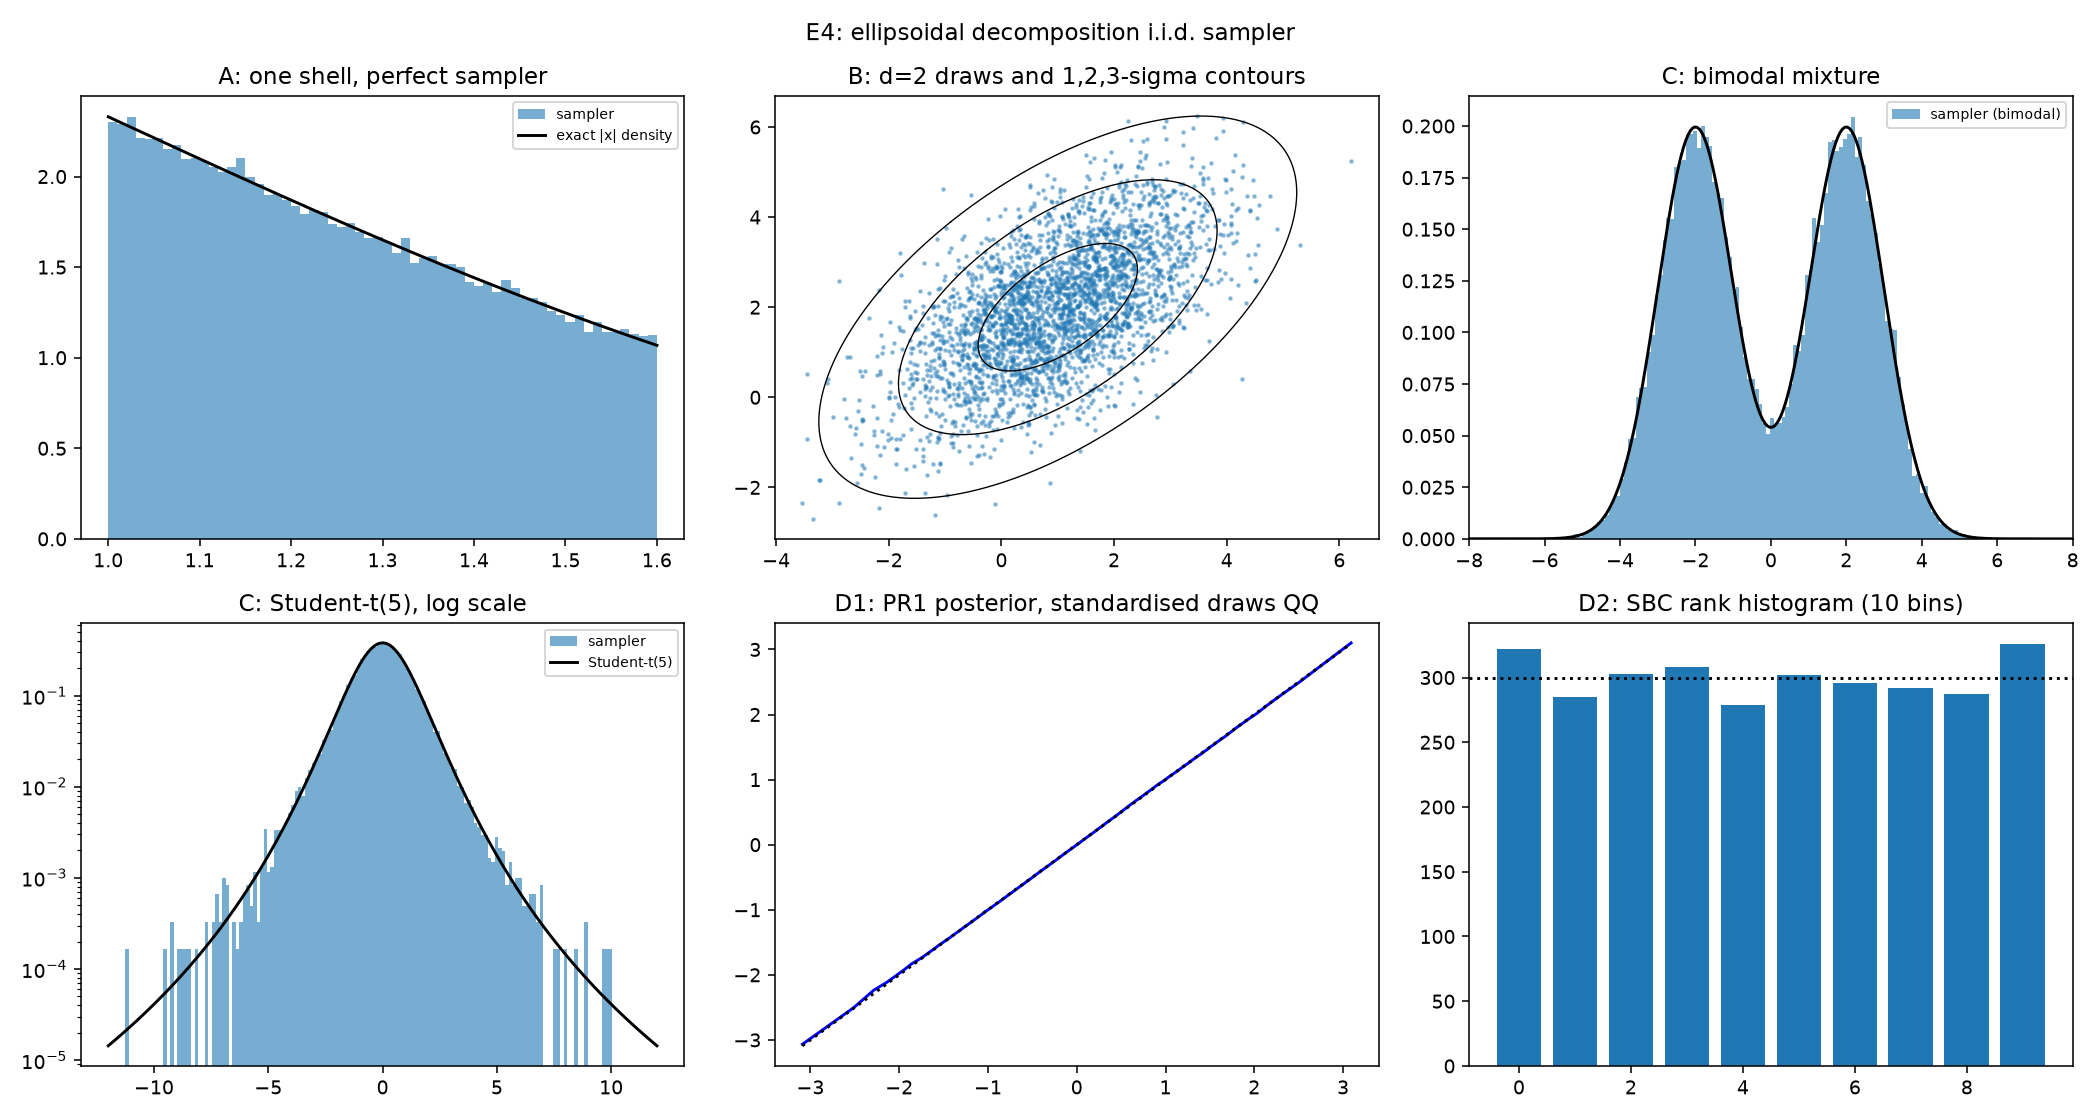
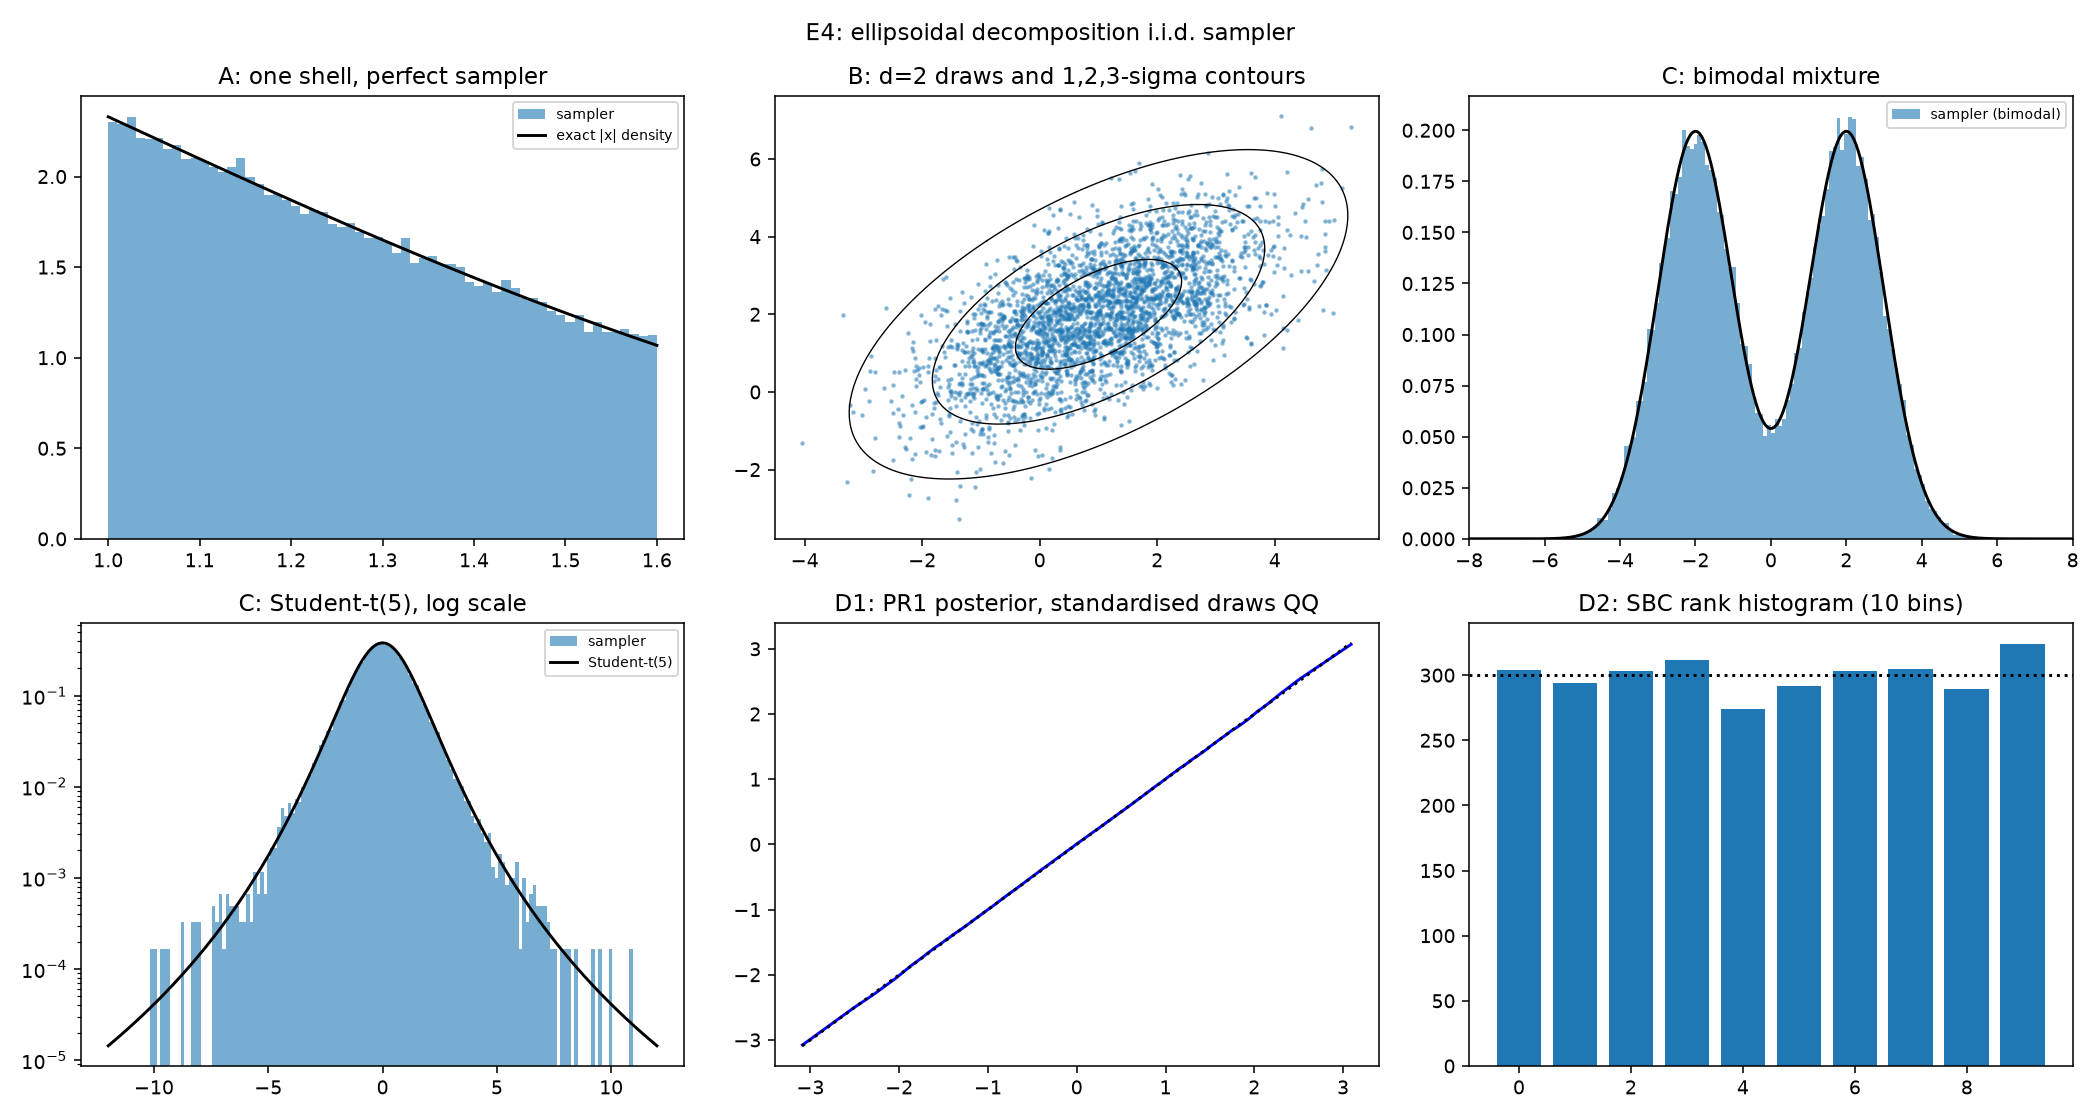
e4: use explicit modes, add coverage-independence check; regenerate results

diff --git a/experiments/e4_ellipsoidal_sampler.py b/experiments/e4_ellipsoidal_sampler.py
@@ -8,16 +8,21 @@ other inference methods. The sampler draws from pi_hat (Monte Carlo shell weight
 Protocol (as in PR 1): criteria fixed before running, 10 seeds (0..9; pooled draws), every positive check has a negative
 control that must fail, exit status 1 if any required check (positive or control) does not hold. alpha = 0.001.
 
-Part A  one shell, 1-D N(0,1), shell {1.0 <= |x| <= 1.6}, rigorous bounds (p = 0.458); 20,000 draws x 10 seeds
+Part A  one shell, 1-D N(0,1), shell {1.0 <= |x| <= 1.6}, rigorous mode (p = 0.458); 20,000 draws x 10 seeds
         KS vs exact CDF p > alpha | mean|x| within 3 SE | mean coalescence time within 3 SE of (1-p)/p | 0 minorization violations
         CONTROLS (must fail): uniform draws without residual steps; the coalescence-time form stated in the source paper
-Part B  Gaussian N(nu, S), d in {1,2,3,5}, partition matched to the target, Monte Carlo bounds as in the paper (N_i = 10,000,
-        eta = 1e-5), 4,000 draws x 10 seeds; d in {2,5} also with rigorous bounds
+Part B  Gaussian N(nu, S), d in {1,2,3,5}, partition matched to the target, mode "monte_carlo" as in the paper (N_i = 10,000,
+        eta = 1e-5; NO perfect-sampling guarantee), 4,000 draws x 10 seeds; d in {2,5} also in mode "rigorous" (Gaussian bounds)
         KS of Mahalanobis^2 vs chi2(d) p > alpha | every mean |z| < 4 | every covariance entry |z| < 4 | violations < 0.1% of steps
         CONTROLS (d=2, must fail): shells chosen uniformly instead of by pi_hat; tail truncated (fixed M = 4 shells)
+        Shell coverage is fixed by prepare() before any draw (tail_tol = 1e-6 of the retained mass: bound in rigorous mode,
+        estimate in monte_carlo mode); a violation larger than violation_tol raises, so a completed run had none that large.
 Part C  non-Gaussian 1-D: bimodal 0.5 N(-2,1) + 0.5 N(2,1) and Student-t with 5 d.o.f.; 4,000 draws x 10 seeds
         KS vs exact CDF p > alpha.   CONTROL (t5, must fail): central ellipsoid only (fixed M = 1; drops ~5% of the mass. A first version used M = 4, which drops
         only ~0.13% and is below the resolution of a KS test at 40,000 draws, so it could not fail and was replaced)
+Part E  coverage independent of the draws (d = 2, monte_carlo mode, 10 seeds): after prepare(), 500 calls of sample(1), 5 calls of
+        sample(100) and one sample(500) per seed: each vs chi2(2) KS p > alpha, the three pairwise two-sample KS p > alpha, and the
+        shell set unchanged by the calls.   CONTROL (must fail): two-sample KS between draws of N(nu, S) and of N(nu, 1.2 S)
 Part D  continuity with PR 1 (ScalarGaussianBelief: mu0=0, s0=1, sigma_y=0.5)
         D1  sampler for the posterior after T=8 observations, partition = (mu_t, sigma_t^2) of the PR 1 belief:
             standardised draws KS vs N(0,1) p > alpha | mean and variance within 3 SE
@@ -42,7 +47,7 @@ ROOT = pathlib.Path(__file__).resolve().parents[1]
 sys.path.insert(0, str(ROOT / "src"))
 from bayesian_reflex import ScalarGaussianBelief  # noqa: E402
 from bayesian_reflex.sampling import (EllipsoidalPartition, EllipsoidalSampler, LinearRadii,  # noqa: E402
-                                      gaussian_log_density, gaussian_shell_log_bounds)
+                                      gaussian_log_density, gaussian_log_tail_bound, gaussian_shell_log_bounds)
 
 OUT = ROOT / "results"
 OUT.mkdir(exist_ok=True)
@@ -57,17 +62,23 @@ def add(name, value, criterion, passed, control=False):
 
 def summarize(sampler):
     d = sampler.diagnostics
-    return dict(n_shells=d["n_shells"], mean_T=d["mean_coalescence_steps"], max_T=d["max_coalescence_steps"],
+    return dict(mode=d["mode"], n_shells=d["n_shells"], mean_T=d["mean_coalescence_steps"], max_T=d["max_coalescence_steps"],
                 min_p_selected=float(min(d["p_hat"][i - 1] for i in d["shell_counts"])),
                 last_shell_weight=d["last_shell_weight"], violations=d["n_minorization_violations"],
-                residual_steps=d["n_residual_steps"])
+                max_shortfall=d["max_violation_shortfall"], residual_steps=d["n_residual_steps"],
+                tv_weight_error_estimate=d["tv_weight_error_estimate"], omitted_mass_bound=d["omitted_mass_bound"],
+                omitted_mass_estimate=d["omitted_mass_estimate"])
 
 
 def merge(ds):
-    return dict(n_shells=max(d["n_shells"] for d in ds), mean_T=float(np.mean([d["mean_T"] for d in ds])),
+    pick = lambda k, f: (f(d[k] for d in ds if d[k] is not None) if any(d[k] is not None for d in ds) else None)  # noqa: E731
+    return dict(mode=ds[0]["mode"], n_shells=max(d["n_shells"] for d in ds), mean_T=float(np.mean([d["mean_T"] for d in ds])),
                 max_T=max(d["max_T"] for d in ds), min_p_selected=min(d["min_p_selected"] for d in ds),
                 max_last_shell_weight=max(d["last_shell_weight"] for d in ds),
-                violations=sum(d["violations"] for d in ds), residual_steps=sum(d["residual_steps"] for d in ds))
+                violations=sum(d["violations"] for d in ds), max_shortfall=max(d["max_shortfall"] for d in ds),
+                residual_steps=sum(d["residual_steps"] for d in ds),
+                max_tv_weight_error_estimate=max(d["tv_weight_error_estimate"] for d in ds),
+                max_omitted_mass_bound=pick("omitted_mass_bound", max), max_omitted_mass_estimate=pick("omitted_mass_estimate", max))
 
 
 # ============================================================================================== Part A
@@ -87,10 +98,11 @@ def part_a():
     xs, xs1, xs_u, ds, Ts = [], [], [], [], []
     for seed in SEEDS:
         rng = np.random.default_rng(seed)
+        part = EllipsoidalPartition([0.0], [[1.0]], LinearRadii(1.0, 0.6))
         mk = lambda support: EllipsoidalSampler(  # noqa: E731
-            gaussian_log_density([0.0], [[1.0]]),
-            EllipsoidalPartition([0.0], [[1.0]], LinearRadii(1.0, 0.6)), geometric_support=support, n_mc=100,
-            log_bounds=gaussian_shell_log_bounds(EllipsoidalPartition([0.0], [[1.0]], LinearRadii(1.0, 0.6)), [0.0], [[1.0]]))
+            gaussian_log_density([0.0], [[1.0]]), part, mode="rigorous", geometric_support=support, n_mc=100,
+            log_bounds=gaussian_shell_log_bounds(part, [0.0], [[1.0]]),
+            log_tail_bound=gaussian_log_tail_bound(part, [0.0], [[1.0]]))
         s0, s1 = mk(0), mk(1)
         xs.append(s0.sample_from_shells(np.full(K, 2), rng)[:, 0])
         xs1.append(s1.sample_from_shells(np.full(K, 2), rng)[:, 0])
@@ -128,9 +140,12 @@ def run_gaussian(d, bounds, n=4000, **kw):
     for seed in SEEDS:
         rng = np.random.default_rng(100 + seed)
         part = EllipsoidalPartition(nu, S, LinearRadii(1.5, 0.3))
-        lb = gaussian_shell_log_bounds(part, nu, S) if bounds == "exact" else None
-        s = EllipsoidalSampler(gaussian_log_density(nu, S), part, log_bounds=lb, n_mc=10_000, **kw)
-        shells_override = kw.pop("_uniform_shells", None)
+        if bounds == "exact":
+            s = EllipsoidalSampler(gaussian_log_density(nu, S), part, mode="rigorous", n_mc=10_000,
+                                   log_bounds=gaussian_shell_log_bounds(part, nu, S),
+                                   log_tail_bound=gaussian_log_tail_bound(part, nu, S), **kw)
+        else:
+            s = EllipsoidalSampler(gaussian_log_density(nu, S), part, n_mc=10_000, **kw)
         xs.append(s.sample(n, rng))
         ds.append(summarize(s))
     return np.concatenate(xs), merge(ds), nu, S
@@ -148,6 +163,7 @@ def check_gaussian(label, x, nu, S, dg, required_violations=True):
     add(f"{label}: max |z| of covariance entries", zcov, "<4", zcov < 4)
     rate = dg["violations"] / max(dg["residual_steps"], 1)
     add(f"{label}: minorization violation rate", rate, "<0.001", rate < 1e-3)
+    add(f"{label}: worst violation shortfall (p_hat - a)/p_hat", dg["max_shortfall"], "<0.01", dg["max_shortfall"] < 1e-2)
     return ks
 
 
@@ -170,10 +186,9 @@ def part_b():
         rng = np.random.default_rng(200 + seed)
         part = EllipsoidalPartition(nu, S, LinearRadii(1.5, 0.3))
         s = EllipsoidalSampler(gaussian_log_density(nu, S), part, n_mc=10_000)
-        M = s._M
-        s._ensure_shell(M, rng)
-        xu.append(s.sample_from_shells(rng.integers(1, M + 1, 4000), rng))           # shells chosen uniformly
-        s2 = EllipsoidalSampler(gaussian_log_density(nu, S), part, n_mc=10_000, initial_shells=4, adaptive_shells=False)
+        s.prepare(rng)
+        xu.append(s.sample_from_shells(rng.integers(1, s._M + 1, 4000), rng))        # shells chosen uniformly
+        s2 = EllipsoidalSampler(gaussian_log_density(nu, S), part, n_mc=10_000, n_shells=4)
         xt.append(s2.sample(4000, rng))                                               # tail truncated at M = 4
     for name, x in (("shells chosen uniformly (weights ignored)", np.concatenate(xu)),
                     ("tail truncated at M = 4 shells", np.concatenate(xt))):
@@ -199,7 +214,7 @@ def part_c():
         ld_t = lambda th: -3.0 * np.log1p(th[:, 0] ** 2 / 5.0)                              # noqa: E731
         s = EllipsoidalSampler(ld_t, part_t, n_mc=10_000, initial_shells=8)
         xt.append(s.sample(4000, rng)[:, 0]); dt.append(summarize(s))
-        s = EllipsoidalSampler(ld_t, part_t, n_mc=10_000, initial_shells=1, adaptive_shells=False)
+        s = EllipsoidalSampler(ld_t, part_t, n_mc=10_000, n_shells=1)
         xc.append(s.sample(4000, rng)[:, 0])
     xm, xt, xc = (np.concatenate(v) for v in (xm, xt, xc))
     pm, pt, pc = stats.kstest(xm, cdf_mix).pvalue, stats.kstest(xt, t5.cdf).pvalue, stats.kstest(xc, t5.cdf).pvalue
@@ -208,6 +223,38 @@ def part_c():
     add("C Student-t(5): central ellipsoid only (M = 1 shell): KS p", pc, f"<{ALPHA} (must fail)", pc < ALPHA, control=True)
     diag["C_mixture"], diag["C_t5"] = merge(dm), merge(dt)
     return xm, xt, cdf_mix, t5
+
+
+# ============================================================================================== Part E
+def part_e():
+    """Shell coverage is fixed by prepare() and does not depend on the draws: sample(1), repeated calls, bulk sampling."""
+    nu, S = target_params(2)
+    xs1, xsb, xsk, xsc, changed = [], [], [], [], 0
+    for seed in SEEDS:
+        rng = np.random.default_rng(600 + seed)
+        s = EllipsoidalSampler(gaussian_log_density(nu, S), EllipsoidalPartition(nu, S, LinearRadii(1.5, 0.3)), n_mc=10_000)
+        s.prepare(rng)
+        M, cum = s._M, s._cum.copy()
+        xs1.append(np.vstack([s.sample(1, rng) for _ in range(500)]))
+        xsb.append(np.vstack([s.sample(100, rng) for _ in range(5)]))
+        xsk.append(s.sample(500, rng))
+        changed += int(s._M != M or not np.array_equal(s._cum, cum))
+        S2 = 1.2 * S
+        sc = EllipsoidalSampler(gaussian_log_density(nu, S2), EllipsoidalPartition(nu, S2, LinearRadii(1.5, 0.3)), n_mc=10_000)
+        xsc.append(sc.sample(500, rng))
+    maha = lambda xs_: np.sum(np.linalg.solve(np.linalg.cholesky(S), (np.vstack(xs_) - nu).T) ** 2, axis=0)  # noqa: E731
+    m = {"sample(1) x 500": maha(xs1), "sample(100) x 5": maha(xsb), "sample(500)": maha(xsk)}
+    for name, v in m.items():
+        ks = stats.kstest(v, stats.chi2(2).cdf).pvalue
+        add(f"E {name}: KS p of Mahalanobis^2 vs chi2(2)", ks, f">{ALPHA}", ks > ALPHA)
+    names = list(m)
+    for a_, b_ in ((0, 2), (1, 2), (0, 1)):
+        ks = stats.ks_2samp(m[names[a_]], m[names[b_]]).pvalue
+        add(f"E two-sample KS p: {names[a_]} vs {names[b_]}", ks, f">{ALPHA}", ks > ALPHA)
+    add("E seeds whose shell set changed during sampling", changed, "0", changed == 0)
+    ks = stats.ks_2samp(m["sample(500)"], maha(xsc)).pvalue
+    add("E two-sample KS p: target vs target with covariance x 1.2", ks, f"<{ALPHA} (must fail)", ks < ALPHA, control=True)
+    diag["E"] = dict(draws_per_variant=int(len(m["sample(500)"])), seeds_with_changed_shells=int(changed))
 
 
 # ============================================================================================== Part D
@@ -286,6 +333,7 @@ def main():
     xa, cdf_a = part_a()
     bres = part_b()
     xm, xt, cdf_mix, t5 = part_c()
+    part_e()
     z, ranks = part_d()
 
     print(f"{'check':74s}{'value':>11s}  criterion")
